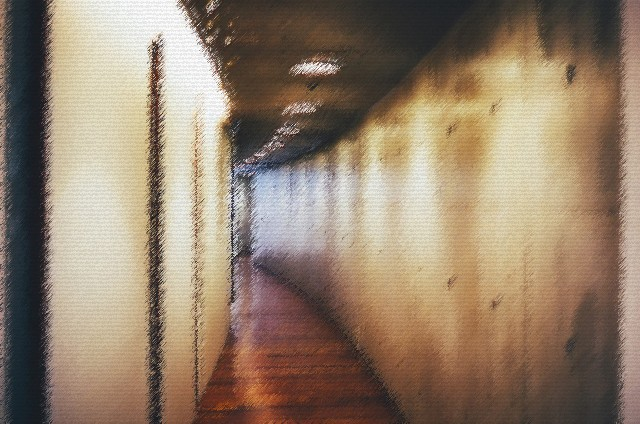
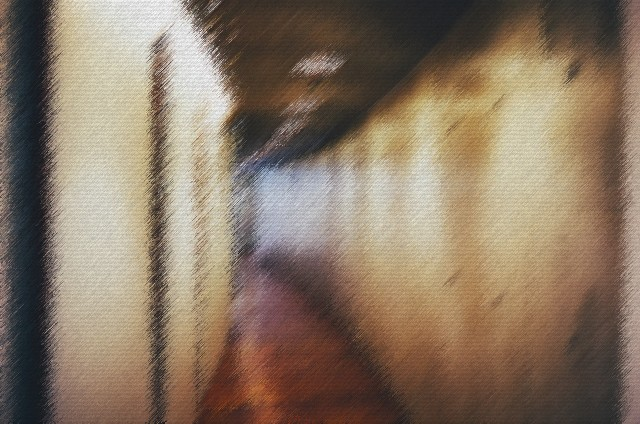
glitchV2

diff --git a/JS/event.js b/JS/event.js
@@ -21,8 +21,20 @@ function glitch(){
     setTimeout(function(){i.src="RESOURCES/couloir.jpg"},500);
     setTimeout(function(){i.src="RESOURCES/couloir_glitch.jpg"},600);
     setTimeout(function(){i.src="RESOURCES/couloir.jpg"},700);
-    setTimeout(function(){i.src="RESOURCES/couloir_glitch.jpg"},800);
-    setTimeout(function(){i.src="RESOURCES/couloir.jpg"},900);
+}
+
+function glitch2(){
+    let interference = document.getElementById("interference");
+    interference.play();
+    var i = document.getElementById("screenCam1");
+    i.src="RESOURCES/couloir_glitch2.jpg";
+    setTimeout(function(){i.src="RESOURCES/couloir.jpg"},100);
+    setTimeout(function(){i.src="RESOURCES/couloir_glitch2.jpg"},200);
+    setTimeout(function(){i.src="RESOURCES/couloir.jpg"},300);
+    setTimeout(function(){i.src="RESOURCES/couloir_glitch2.jpg"},400);
+    setTimeout(function(){i.src="RESOURCES/couloir.jpg"},500);
+    setTimeout(function(){i.src="RESOURCES/couloir_glitch2.jpg"},600);
+    setTimeout(function(){i.src="RESOURCES/couloir.jpg"},700);
 }
 
 function toLobby() {
